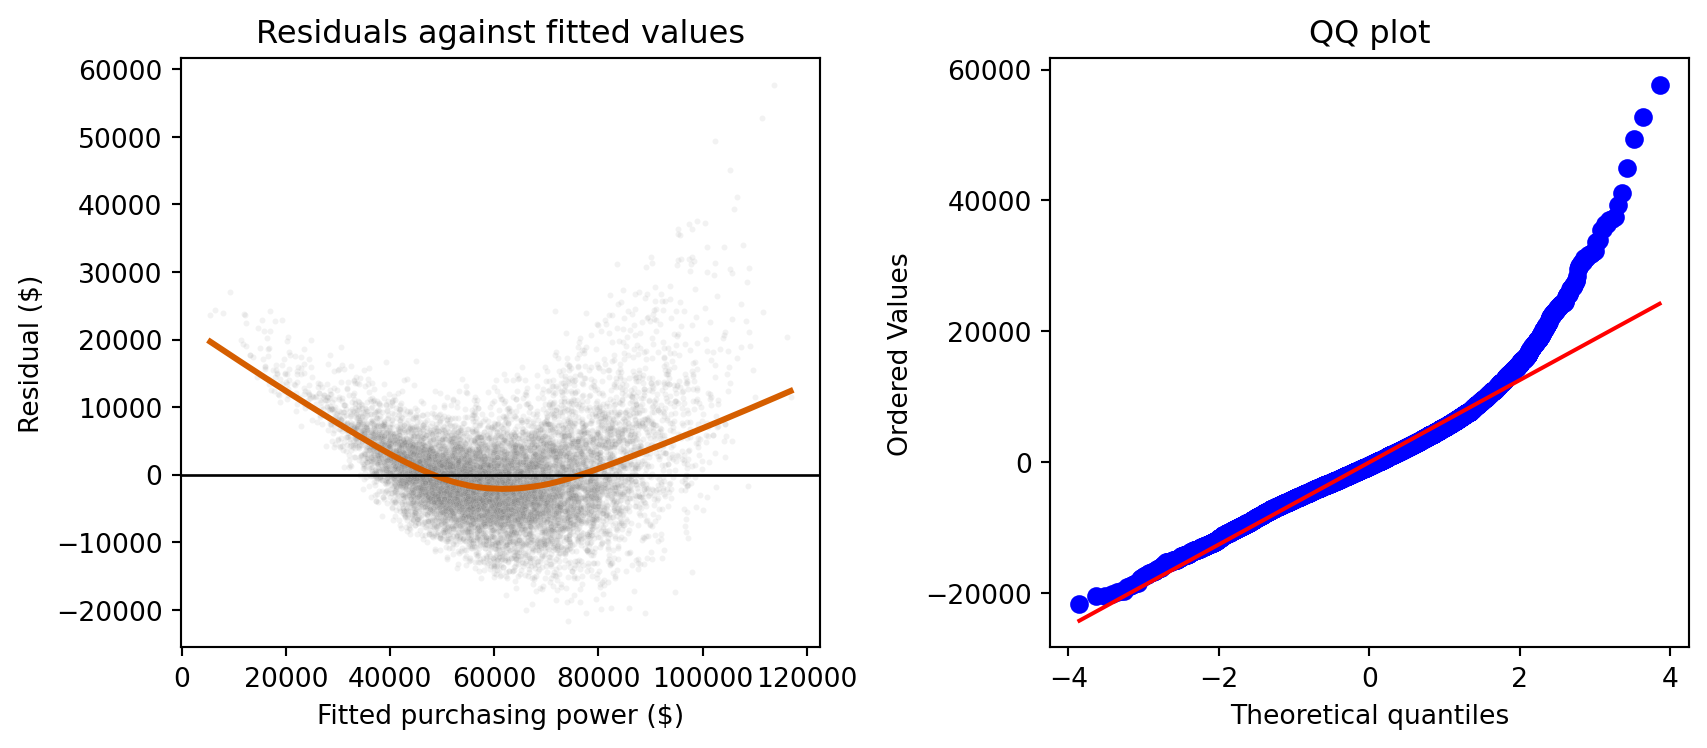
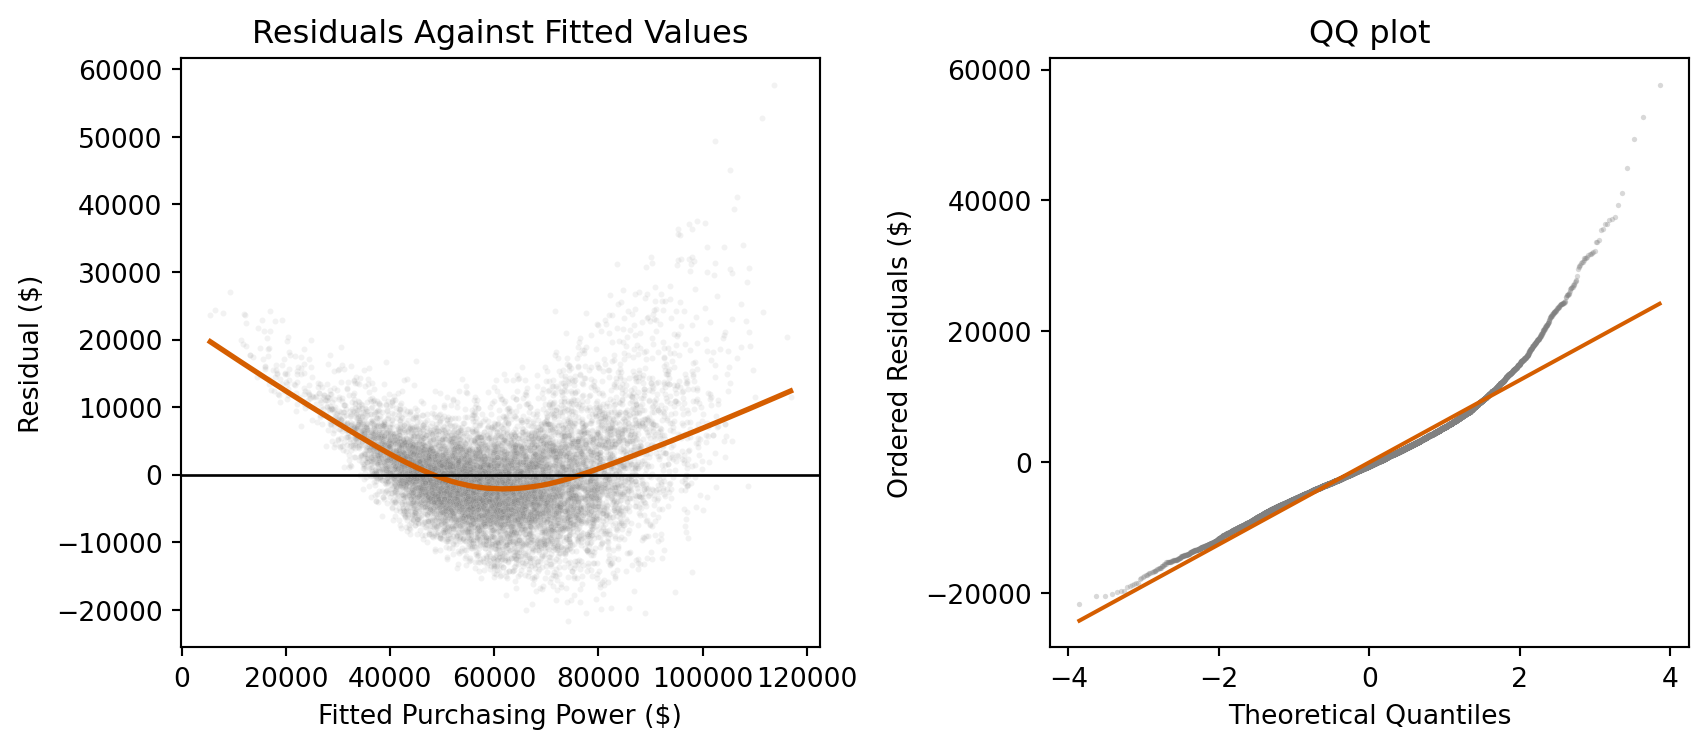
Built site for gh-pages

diff --git a/index.html b/index.html
@@ -729,7 +729,7 @@ Figure&nbsp;8: Variation split into differences between counties and movement wi
 <h3 class="anchored" data-anchor-id="year-and-state-indicators">Year and State Indicators</h3>
 <p>Running year as a factor, not as numeric, gives each year its own independent coefficient, with no assumption about ordering or spacing between them.</p>
 <p>One state is left as a reference state as well, which will be the state whose mean purchasing power sits closest to the panel median.</p>
-<div id="98e872d6" class="cell" data-execution_count="12">
+<div id="da9c88dc" class="cell" data-execution_count="12">
 <div class="cell-output cell-output-stdout">
 <pre><code>States pooled into 'OTHER' (fewer than 5 counties): ['02', '10', '15', '31', '32', '38', '44', '46', '50', '56']
 state_code_grouped
@@ -802,7 +802,7 @@ Figure&nbsp;9: Mean purchasing power by state, sorted ascending, with the panel 
 <h3 class="anchored" data-anchor-id="collinearity">Collinearity</h3>
 <p>Our four main features, <code>routine_cognitive_share</code>, <code>routine_manual_share</code>, <code>non_routine_cognitive_share</code> and <code>non_routine_manual_share</code>, are parts of a whole, so one must be removed to maintain independence, as the fourth is deterministic once the values of the other three are known. Leaving all four in would guarantee at least one variance inflation offender, for the same reason set out in <a href="#fig-vif" class="quarto-xref">Figure&nbsp;2</a> above.</p>
 <p>The remaining three coefficients read as the change in purchasing power associated with a shift toward that group and away from the omitted one.</p>
-<div id="c0ea19ca" class="cell" data-execution_count="14">
+<div id="143f7df6" class="cell" data-execution_count="14">
 <div class="cell-output cell-output-stdout">
 <pre><code>Task groups entering the model: ['routine_cognitive_share', 'routine_manual_share', 'non_routine_manual_share']</code></pre>
 </div>
@@ -897,7 +897,7 @@ Table&nbsp;2: Variance inflation factors for year and state indicators after rem
 <p>We report two versions of each linear model throughout this section: a <strong>baseline</strong>, using the task groups with poverty and unemployment only, and a <strong>full</strong> model, which adds year and state controls. The baseline shows what the relationship looks like before time and geography are accounted for, and the full model is the one carried forward as the primary result. Reporting both makes visible exactly what changes when time and geography enter, and why.</p>
 <section id="baseline-specification" class="level4">
 <h4 class="anchored" data-anchor-id="baseline-specification">Baseline Specification</h4>
-<div id="e119aff7" class="cell" data-execution_count="18">
+<div id="43b6791d" class="cell" data-execution_count="18">
 <div class="cell-output cell-output-stdout">
 <pre><code>                             OLS Regression Results                             
 ================================================================================
@@ -905,7 +905,7 @@ Dep. Variable:     affordability_salary   R-squared:                       0.766
 Model:                              OLS   Adj. R-squared:                  0.766
 Method:                   Least Squares   F-statistic:                     6249.
 Date:                  Tue, 04 Aug 2026   Prob (F-statistic):               0.00
-Time:                          19:35:30   Log-Likelihood:                -99712.
+Time:                          20:43:53   Log-Likelihood:                -99712.
 No. Observations:                  9565   AIC:                         1.994e+05
 Df Residuals:                      9559   BIC:                         1.995e+05
 Df Model:                             5                                         
@@ -934,7 +934,7 @@ Notes:
 </section>
 <section id="full-specification" class="level4">
 <h4 class="anchored" data-anchor-id="full-specification">Full Specification</h4>
-<div id="4618fe95" class="cell" data-execution_count="19">
+<div id="d3dd1efb" class="cell" data-execution_count="19">
 <div class="cell-output cell-output-stdout">
 <pre><code>routine_cognitive_share    -87421.198221
 routine_manual_share       -81143.308583
@@ -966,7 +966,7 @@ Figure&nbsp;10: Full raw target OLS diagnostics. Left: residuals against fitted 
 <section id="full-specification-on-the-logged-outcome" class="level4">
 <h4 class="anchored" data-anchor-id="full-specification-on-the-logged-outcome">Full Specification on the Logged Outcome</h4>
 <p>The binned means in <a href="#fig-binned-scale" class="quarto-xref">Figure&nbsp;7</a> showed an approximately exponential pattern, so we investigate whether logging the target makes a linear model more appropriate here as well.</p>
-<div id="897bc366" class="cell" data-execution_count="21">
+<div id="003f2c10" class="cell" data-execution_count="21">
 <div class="cell-output cell-output-stdout">
 <pre><code>Any zero/negative affordability values? 0
 Skew, original: 1.2324330032097133
@@ -977,7 +977,7 @@ Dep. Variable:     affordability_salary   R-squared:                       0.913
 Model:                              OLS   Adj. R-squared:                  0.912
 Method:                   Least Squares   F-statistic:                     1718.
 Date:                  Tue, 04 Aug 2026   Prob (F-statistic):               0.00
-Time:                          19:35:30   Log-Likelihood:                 10999.
+Time:                          20:43:53   Log-Likelihood:                 10999.
 No. Observations:                  9565   AIC:                        -2.188e+04
 Df Residuals:                      9506   BIC:                        -2.146e+04
 Df Model:                            58                                         
@@ -1071,7 +1071,7 @@ Figure&nbsp;11: Log target OLS diagnostics, same layout as the raw target model.
 </div>
 </div>
 <p>The residual plot looks uniformly distributed and the QQ plot follows a straight line pattern, so with a logged target a linear model is appropriate.</p>
-<div id="18d46e8c" class="cell" data-execution_count="23">
+<div id="b1cc304c" class="cell" data-execution_count="23">
 <div class="cell-output cell-output-stdout">
 <pre><code>R-squared (log target, in-sample): 0.9128887327038346
 Test R2 (log space): 0.889425128052146
@@ -1228,7 +1228,7 @@ Figure&nbsp;12: Random forest residuals against predicted values on the held out
 <p>Unlike the raw target OLS residuals, <a href="#fig-rf-resid" class="quarto-xref">Figure&nbsp;12</a> shows random forest residuals with no systematic curve or trend across the range of predicted values.</p>
 <section id="ablation-without-task-groups" class="level4">
 <h4 class="anchored" data-anchor-id="ablation-without-task-groups">Ablation without Task Groups</h4>
-<div id="4c9907fb" class="cell" data-execution_count="30">
+<div id="73990bb9" class="cell" data-execution_count="30">
 <div class="cell-output cell-output-stdout">
 <pre><code>R2 without task groups: 0.8340755666968219</code></pre>
 </div>
@@ -1237,7 +1237,7 @@ Figure&nbsp;12: Random forest residuals against predicted values on the held out
 </section>
 <section id="ablation-without-economic-controls" class="level4">
 <h4 class="anchored" data-anchor-id="ablation-without-economic-controls">Ablation without Economic Controls</h4>
-<div id="ee884ef2" class="cell" data-execution_count="31">
+<div id="fd1bb169" class="cell" data-execution_count="31">
 <div class="cell-output cell-output-stdout">
 <pre><code>R2 without poverty/unemployment: 0.6983174339503759</code></pre>
 </div>
@@ -1247,7 +1247,7 @@ Figure&nbsp;12: Random forest residuals against predicted values on the held out
 <section id="random-gorest-on-the-logged-outcome" class="level4">
 <h4 class="anchored" data-anchor-id="random-gorest-on-the-logged-outcome">Random Gorest on the Logged Outcome</h4>
 <p>The forest is also fit on the logged outcome.</p>
-<div id="6cba2128" class="cell" data-execution_count="32">
+<div id="383b3866" class="cell" data-execution_count="32">
 <div class="cell-output cell-output-stdout">
 <pre><code>Test R2 (log space): 0.8782074681862392
 Test R2 (back-transformed to $): 0.876871024586412
@@ -1259,7 +1259,7 @@ Test MAE (back-transformed to $): 3915.09236140749</code></pre>
 <section id="grouped-permutation" class="level4">
 <h4 class="anchored" data-anchor-id="grouped-permutation">Grouped Permutation</h4>
 <p>To see what the four task groups do together, rather than one at a time diluting each other, we permute all four jointly and compare the drop in R² to permuting them individually.</p>
-<div id="b9d15c30" class="cell" data-execution_count="33">
+<div id="2c9eaba3" class="cell" data-execution_count="33">
 <div class="cell-output cell-output-stdout">
 <pre><code>Baseline R2: 0.8763873952396566
 Drop from permuting all task groups together: 0.1528432158941317
